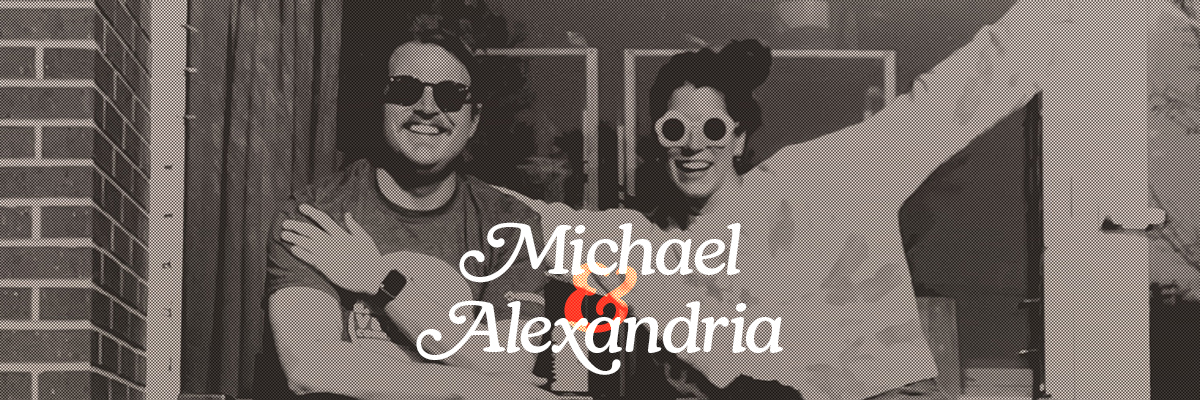
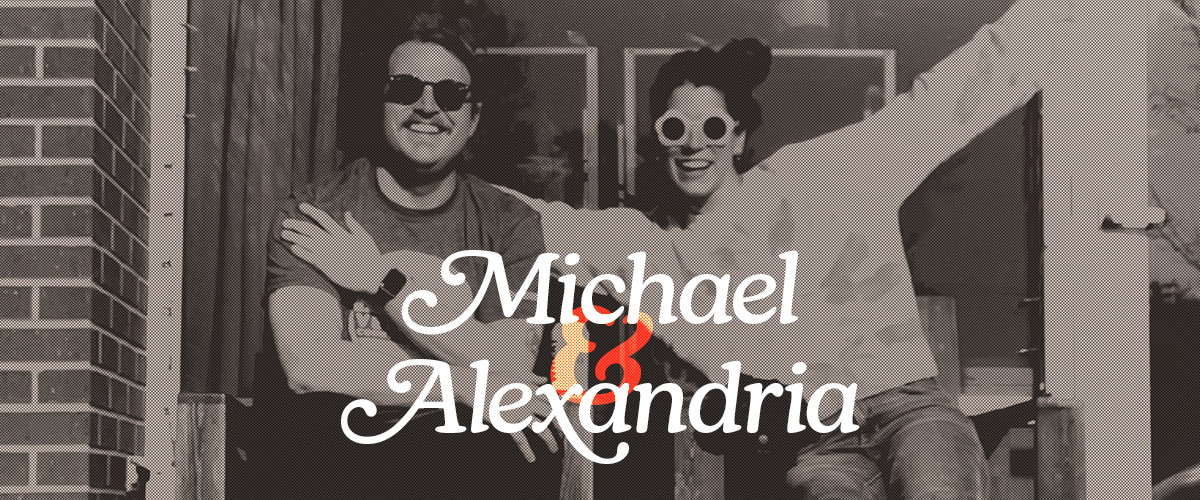
email updates

diff --git a/email-preview.html b/email-preview.html
@@ -35,9 +35,9 @@
 
     <!-- ===== Begin email body (mirrors what Apps Script generates) ===== -->
     <div style="background:#ffffff; padding: 32px 16px; font-family: Georgia, 'Times New Roman', serif;">
-      <div style="max-width: 520px; margin: 0 auto; background:#ffffff; padding: 32px; border-radius: 10px; color:#2a2a2a; line-height: 1.55;">
+      <div style="max-width: 640px; margin: 0 auto; background:#ffffff; padding: 32px; border-radius: 10px; color:#2a2a2a; line-height: 1.55;">
 
-        <img src="assets/email-head.jpg" alt="Michael & Alexandria" width="600" height="225" style="display:block; width:100%; max-width:600px; height:auto; margin:0 0 20px; border-radius:6px;" />
+        <img src="assets/email-head.jpg" alt="Michael & Alexandria" width="640" height="240" style="display:block; width:100%; max-width:640px; height:auto; margin:0 0 20px; border-radius:6px;" />
 
         <p data-copy="opener" style="margin:0 0 18px; font-size:16px;">Thanks for RSVP'ing for our wedding! All of the information you entered is below. If you need to make any changes, click the button at the bottom of the page.<div><br></div><div>Any updates or new information about the wedding and reception will come to you via your preferred contact method. We will only send important stuff, promise.</div></p>
 
